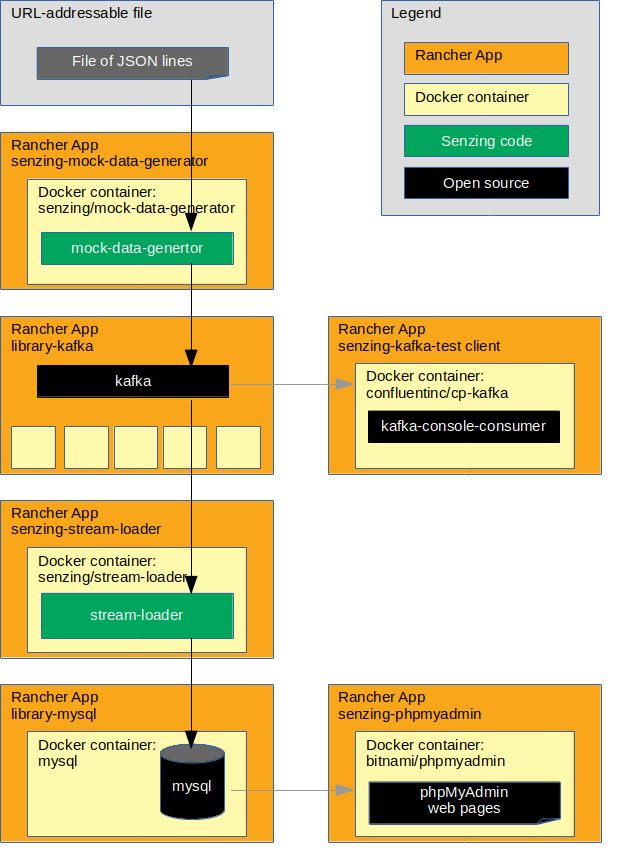
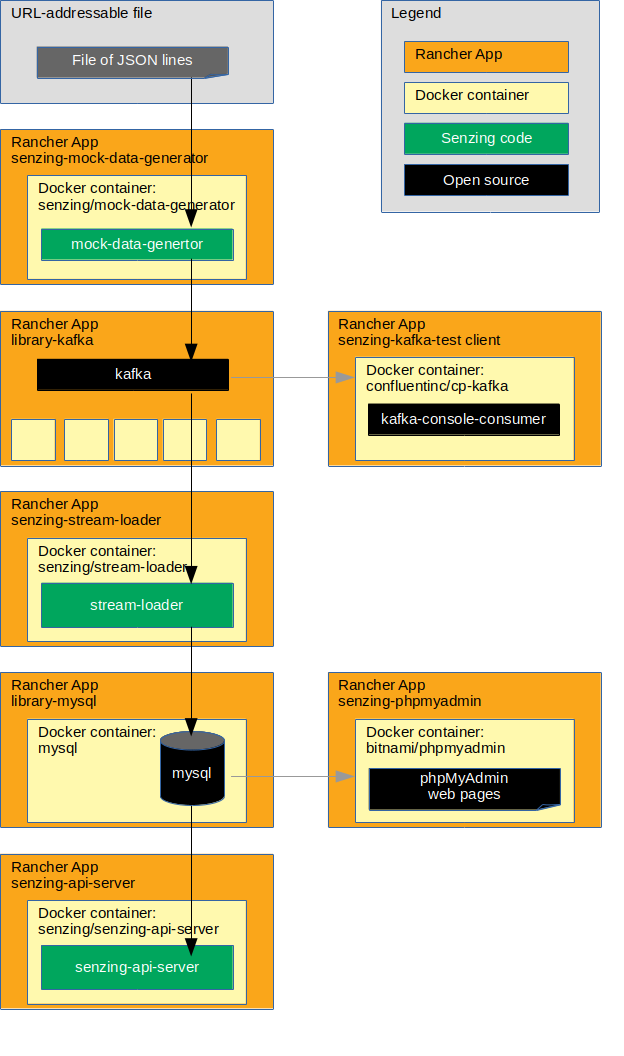
issue-1 Add Senzing API server

diff --git a/README.md b/README.md
@@ -28,6 +28,7 @@ The following diagram shows the relationship of the Rancher apps, docker contain
     1. [Install mock-data-generator](#install-mock-data-generator)
     1. [Install stream-loader](#install-stream-loader)
     1. [Install senzing-api-server](#install-senzing-api-server)
+    1. [Test Senzing REST API server](#test-senzing-rest-api-server)
 1. [Cleanup](#cleanup)
     1. [Switch context for delete](#switch-context-for-delete)
     1. [Delete everything in project](#delete-everything-in-project)
@@ -171,7 +172,7 @@ See
 1. Modify ${GIT_REPOSITORY_DIR}/rancher-answers/senzing-api-server.yaml
     1. **image.repository**
         1. Template: "${DOCKER_REGISTRY_URL}/senzing/senzing-api-server"
-        1. Example: `'image.repository': "my.docker-registry.com:5000/senzing/senzing-api-server"`        
+        1. Example: `'image.repository': "my.docker-registry.com:5000/senzing/senzing-api-server"`
 1. Modify ${GIT_REPOSITORY_DIR}/rancher-answers/stream-loader.yaml
     1. **image.repository**
         1. Template: "${DOCKER_REGISTRY_URL}/senzing/mock-data-generator"
@@ -335,7 +336,7 @@ See
     ````
 
 1. Open browser to [localhost:8081](http://localhost:8081)
-    1. Login 
+    1. Login
        1. mysqlUser/mysqlPassword in `rancher-answers/mysql.yaml`
        1. Default: username: g2  password: g2
     1. On left-hand navigation, select "G2" database.
@@ -404,8 +405,6 @@ See
 
 ### Install senzing-api-server
 
-**Warning:** this is still a work-in-progress.  Most likely it will not work.
-
 1. Example:
 
     ```console
@@ -424,6 +423,20 @@ See
 
     rancher kubectl port-forward --namespace ${RANCHER_NAMESPACE_NAME} svc/my-senzing-api-server 8889:8080
     ````
+
+### Test Senzing REST API server
+
+*Note:* port 8889 on the localhost has been mapped to port 8080 in the docker container.
+See `rancher kubectl port-forward ...` above.
+
+1. Example:
+
+    ```console
+    export SENZING_API_SERVICE=http://localhost:8889
+
+    curl -X GET ${SENZING_API_SERVICE}/heartbeat
+    curl -X GET ${SENZING_API_SERVICE}/license
+    ```
 
 ## Cleanup
 
